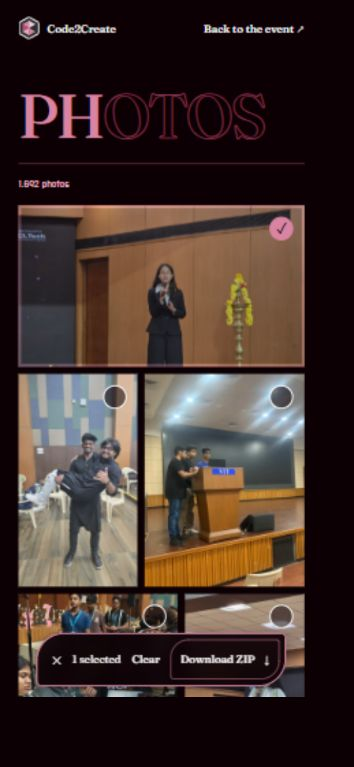
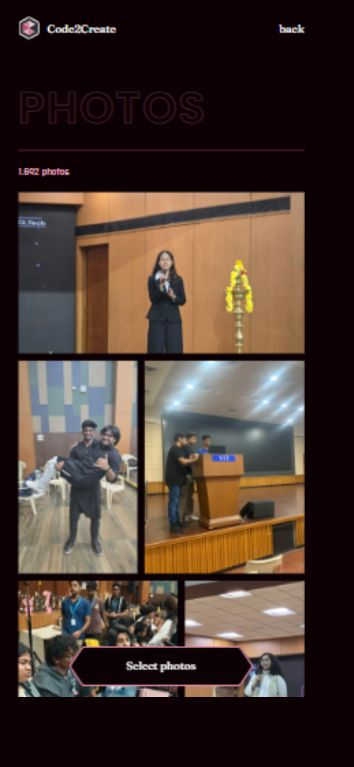
Use portal photo heading and landing CTA button artwork

diff --git a/apps/landing/src/photos/photos.css b/apps/landing/src/photos/photos.css
@@ -1,3 +1,5 @@
+@import url("https://fonts.googleapis.com/css2?family=Poppins:wght@600&display=swap");
+
 .photos-page {
   min-height: 100svh;
   background: var(--ink);
@@ -24,17 +26,32 @@
   margin-bottom: 36px;
 }
 .photos-heading h1 {
-  font-family: var(--font-display);
-  font-size: clamp(68px, 10vw, 160px);
-  font-weight: 500;
-  line-height: 0.85;
-  letter-spacing: -0.04em;
-  color: var(--rose);
+  display: flex;
+  width: max-content;
+  font-family: "Poppins", ui-sans-serif, system-ui, sans-serif;
+  font-size: clamp(48px, 12vw, 196px);
+  font-weight: 600;
+  line-height: 0.9;
+  letter-spacing: 0.04em;
+  text-transform: uppercase;
+  white-space: nowrap;
+  user-select: none;
+  overflow: clip;
   margin: 0;
 }
 .photos-heading h1 span {
   color: transparent;
-  -webkit-text-stroke: 1px var(--rose-deep);
+  -webkit-text-stroke: 1px color-mix(in srgb, var(--rose) 26%, transparent);
+  transition: color 900ms ease;
+}
+.photos-heading h1 span.is-lit {
+  color: var(--rose-light);
+  transition-duration: 120ms;
+}
+@media (prefers-reduced-motion: reduce) {
+  .photos-heading h1 span {
+    transition: none;
+  }
 }
 .photos-caption {
   display: flex;
@@ -63,17 +80,14 @@
   font-family: var(--font-display);
   font-weight: 500;
   color: var(--paper);
-  background: transparent;
+  background: url("/assets/svg/btn-box.svg") center / 100% 100% no-repeat;
   padding: 12px 24px;
-  border: 1px solid var(--rose);
-  border-radius: 20px 4px 20px 4px;
-  transition:
-    background 0.25s ease,
-    box-shadow 0.3s ease;
+  border: 0;
+  transition: filter 0.3s ease;
 }
 .photos-more button:hover,
 .photos-message button:hover {
-  background: var(--rose-deep);
+  filter: drop-shadow(0 0 14px rgba(216, 132, 162, 0.55));
 }
 .photos-more p {
   font-size: 12px;
@@ -132,8 +146,8 @@
   max-width: calc(100vw - 24px);
   width: max-content;
   padding: 6px;
-  border: 2px solid var(--rose);
-  border-radius: 30px 5px 30px 5px;
+  border: 1px solid var(--rose-deep);
+  border-radius: 4px;
   background: color-mix(in srgb, var(--ink) 94%, transparent);
   backdrop-filter: blur(8px);
   box-shadow: 0 4px 20px color-mix(in srgb, var(--ink) 50%, transparent);
@@ -141,6 +155,10 @@
 }
 .photos-dock:not([data-selecting]) {
   padding: 0;
+  border: 0;
+  background: transparent;
+  box-shadow: none;
+  backdrop-filter: none;
 }
 .photos-dock-controls {
   display: flex;
@@ -155,33 +173,24 @@
   justify-content: center;
   gap: 10px;
   min-height: 44px;
-  padding: 10px 14px;
+  padding: 10px 20px;
   border: 0;
-  border-radius: 20px 3px 20px 3px;
-  background: transparent;
+  background: url("/assets/svg/btn-box.svg") center / 100% 100% no-repeat;
   color: var(--paper-warm);
   white-space: nowrap;
   font-weight: 500;
-  transition:
-    color 0.25s ease,
-    background 0.25s ease,
-    box-shadow 0.3s ease;
+  transition: filter 0.3s ease;
 }
 .photos-dock button:hover:not(:disabled) {
-  color: var(--rose-light);
-  background: color-mix(in srgb, var(--rose-deep) 35%, transparent);
+  filter: drop-shadow(0 0 14px rgba(216, 132, 162, 0.55));
 }
 .photos-dock button.photos-dock-primary {
-  border: 1px solid var(--rose);
   color: var(--paper-warm);
 }
 .photos-dock:not([data-selecting]) button.photos-dock-primary {
+  width: 202px;
+  min-height: 44px;
   padding: 12px 24px;
-  border: 0;
-  border-radius: 28px 3px 28px 3px;
-}
-.photos-dock button.photos-dock-primary:hover:not(:disabled) {
-  box-shadow: 0 0 14px color-mix(in srgb, var(--rose) 35%, transparent);
 }
 .photos-dock button:disabled {
   opacity: 0.4;
@@ -219,7 +228,7 @@
     font-size: 12px;
   }
   .photos-dock button {
-    padding: 10px;
+    padding: 10px 12px;
   }
   .photos-footer {
     align-items: flex-start;

diff --git a/apps/landing/src/photos/Photos.tsx b/apps/landing/src/photos/Photos.tsx
@@ -4,6 +4,7 @@ import Lightbox from "yet-another-react-lightbox";
 import Download from "yet-another-react-lightbox/plugins/download";
 import { parseCatalog, photoUrl, type GalleryPhoto } from "./catalog.js";
 import { downloadPhotos } from "./download.js";
+import { OutlineHeading } from "./OutlineHeading.js";
 import "react-photo-album/rows.css";
 import "yet-another-react-lightbox/styles.css";
 import "./photos.css";
@@ -93,15 +94,13 @@ export default function Photos() {
           Code2Create
         </a>
         <a href="/" className="landing-link">
-          Back to the event <span aria-hidden="true">↗</span>
+          back
         </a>
       </header>
       <main className="photos-main">
         <div className="photos-heading">
           <div>
-            <h1 aria-label="Photos">
-              PH<span>OTOS</span>
-            </h1>
+            <OutlineHeading word="Photos" />
           </div>
         </div>
         {status === "loading" && (
@@ -198,18 +197,6 @@ export default function Photos() {
                 className="photos-dock-primary"
                 onClick={() => setSelecting(true)}
               >
-                <svg
-                  aria-hidden="true"
-                  width="18"
-                  height="18"
-                  viewBox="0 0 24 24"
-                  fill="none"
-                  stroke="currentColor"
-                  strokeWidth="1.5"
-                >
-                  <rect x="4" y="4" width="16" height="16" rx="3" />
-                  <path d="m8 12 3 3 5-6" />
-                </svg>
                 Select photos
               </button>
             ) : progress !== null ? (

diff --git a/apps/landing/src/photos/OutlineHeading.tsx b/apps/landing/src/photos/OutlineHeading.tsx
@@ -1,0 +1,51 @@
+import { useEffect, useRef, useState } from "react";
+
+/**
+ * A page's heading drawn as outline letters — the 2021 site's stroked
+ * marquee type, in the portal's rose. As on that site, a letter fills with
+ * colour when the pointer crosses it (or a finger taps it) and fades back
+ * over a second. Static otherwise: no filter, no motion.
+ */
+export function OutlineHeading({ word }: { word: string }) {
+  const [lit, setLit] = useState<ReadonlySet<number>>(() => new Set());
+  const timers = useRef(new Map<number, number>());
+  useEffect(
+    () => () => {
+      for (const timer of timers.current.values()) window.clearTimeout(timer);
+    },
+    [],
+  );
+
+  const light = (index: number) => {
+    setLit((current) => new Set(current).add(index));
+    const existing = timers.current.get(index);
+    if (existing !== undefined) window.clearTimeout(existing);
+    timers.current.set(
+      index,
+      window.setTimeout(() => {
+        timers.current.delete(index);
+        setLit((current) => {
+          const next = new Set(current);
+          next.delete(index);
+          return next;
+        });
+      }, 1_200),
+    );
+  };
+
+  return (
+    <h1 className="photos-outline-heading" aria-label={word}>
+      {Array.from(word).map((letter, index) => (
+        <span
+          key={index}
+          aria-hidden
+          className={lit.has(index) ? "is-lit" : ""}
+          onPointerEnter={() => light(index)}
+          onPointerDown={() => light(index)}
+        >
+          {letter}
+        </span>
+      ))}
+    </h1>
+  );
+}
